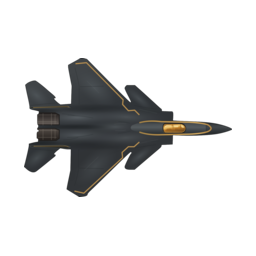
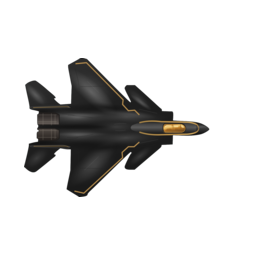
Apply C air raid livery and shorten the nose ahead of the canopy

diff --git a/Art/EnemyAirStrike/README.md b/Art/EnemyAirStrike/README.md
@@ -11,8 +11,10 @@
[9 lines of base64/hex data omitted]
 
 첫 편집에는 첫 시안과 아래 네 장을 직접 첨부했다. 두 번째 편집에서는 수정 시안·공식 도장 사진·원작 공습기 PNG를 다시 첨부해 표식 위치를 고쳤다. 두 편집 모두 투명 배경을 사용했다.
 
@@ -67,3 +69,26 @@ iPhone Air 시뮬레이터에서 적기와 아군 공습기를 같은 전투 프
 기수가 오른쪽을 향한 원본 SVG에서 조종석 벡터만 중심 `x=293`을 기준으로 길이 방향에 0.5배를 적용했다. 게임 PNG의 조종석 중앙에서 금색 유리가 차지하는 가로 범위는 44픽셀에서 22픽셀이 됐다. 변환한 PNG는 이전과 같은 256×256 캔버스와 알파 윤곽을 사용한다.
 
 공용 전투 렌더에서 적기의 표시 폭과 높이를 각각 0.5배로 그린다. 기체를 회전시키는 중심, 아군 공습의 배율, 빨간 조준점은 기존 값을 사용한다. [전투 렌더](../../Sources/Core/Presentation/WorldPresentation.cpp) · [전투 크기 검사](../../Tests/WorldSpecialTests.cpp).
+
+## C안의 검은 도장과 짧은 기수
+
+사용자가 검은 도장 시안 C를 채택했다. 조종석 바로 앞 `x=316`을 기준으로 그 앞의 기수만 길이 방향으로 0.5배 줄였다. SVG를 세 배 크기로 그렸을 때 기준점부터 기수 끝까지 261픽셀에서 131픽셀로 줄었다. 256×256 게임 PNG는 같은 좌표에 그리며, 금색 유리를 포함한 기수 뒤쪽의 RGBA 픽셀은 채택 C안과 같다.
+
+두 SVG는 C안의 원래 크롭 `1192x799+17+9`와 208픽셀 기준 폭으로 고정해 변환한다. C안에는 `v0.8.1` 게임 PNG의 알파 채널을 사용한다. 게임 PNG의 0~185열에는 채택 C안, 186열부터는 짧아진 기수를 그린 결과를 사용한다.
+
+```sh
+cairosvg Art/EnemyAirStrike/MTD-C-approved.svg -o /tmp/mtd-c.png
+cairosvg Art/EnemyAirStrike/MTD-upper-surface.svg -o /tmp/mtd-short-nose.png
+for art in mtd-c mtd-short-nose; do
+  magick "/tmp/$art.png" -crop 1192x799+17+9 +repage -resize 208x208 \
+    -background none -gravity center -extent 256x256 "PNG32:/tmp/$art-game.png"
+done
+git show v0.8.1:Resources/Images/EnemyAirStrikeMTD.png > /tmp/mtd-v081.png
+magick /tmp/mtd-c-game.png -alpha off \
+  \( /tmp/mtd-v081.png -alpha extract \) -compose CopyOpacity -composite PNG32:/tmp/mtd-c-approved.png
+magick /tmp/mtd-c-approved.png -crop 186x256+0+0 +repage \
+  \( /tmp/mtd-short-nose-game.png -crop 70x256+186+0 +repage \) \
+  +append -strip PNG32:Resources/Images/EnemyAirStrikeMTD.png
+```
+
+정식 웹 빌드에서 11스테이지의 61.6초와 62.2초를 C안과 비교했다. 바뀐 화면 픽셀은 기수에만 있었다. iPhone Air 시뮬레이터에서도 새 PNG로 적 공습기와 아군 공습기를 같은 전투 화면에 그렸다.

diff --git a/docs/usability-todo.md b/docs/usability-todo.md
@@ -29,7 +29,7 @@
 - [x] 승인한 F-15 STOL/MTD 외곽, 금줄과 금색 조종석을 유지하고 동체 도장과 음영 시안을 만든다.
 - [x] 현행기와 시안을 같은 전투 시점·크기에서 비교한다. 원작 아군 공습기의 면 명암과 HeavyMach 1 럭스루나에 도장을 참고한다.
 - [x] 후보 원본과 전투 비교를 보고서로 정리했다.
-- [ ] 채택한 시안을 게임에 연결하고 전투 화면에서 확인한다.
+- [x] 채택한 C안을 게임에 연결했다. 조종석 바로 앞의 기수 길이를 절반으로 줄였고 금색 유리 크기를 유지했다. 정식 웹 빌드와 iPhone Air 시뮬레이터의 전투에서 확인했다. [C안과 기수 수정](../Art/EnemyAirStrike/README.md#c안의-검은-도장과-짧은-기수)
 
 # MD-WRITING-UNEASE-INTEGRATION-01 — 헬기 기록 후속 집필·원고 통합
 
